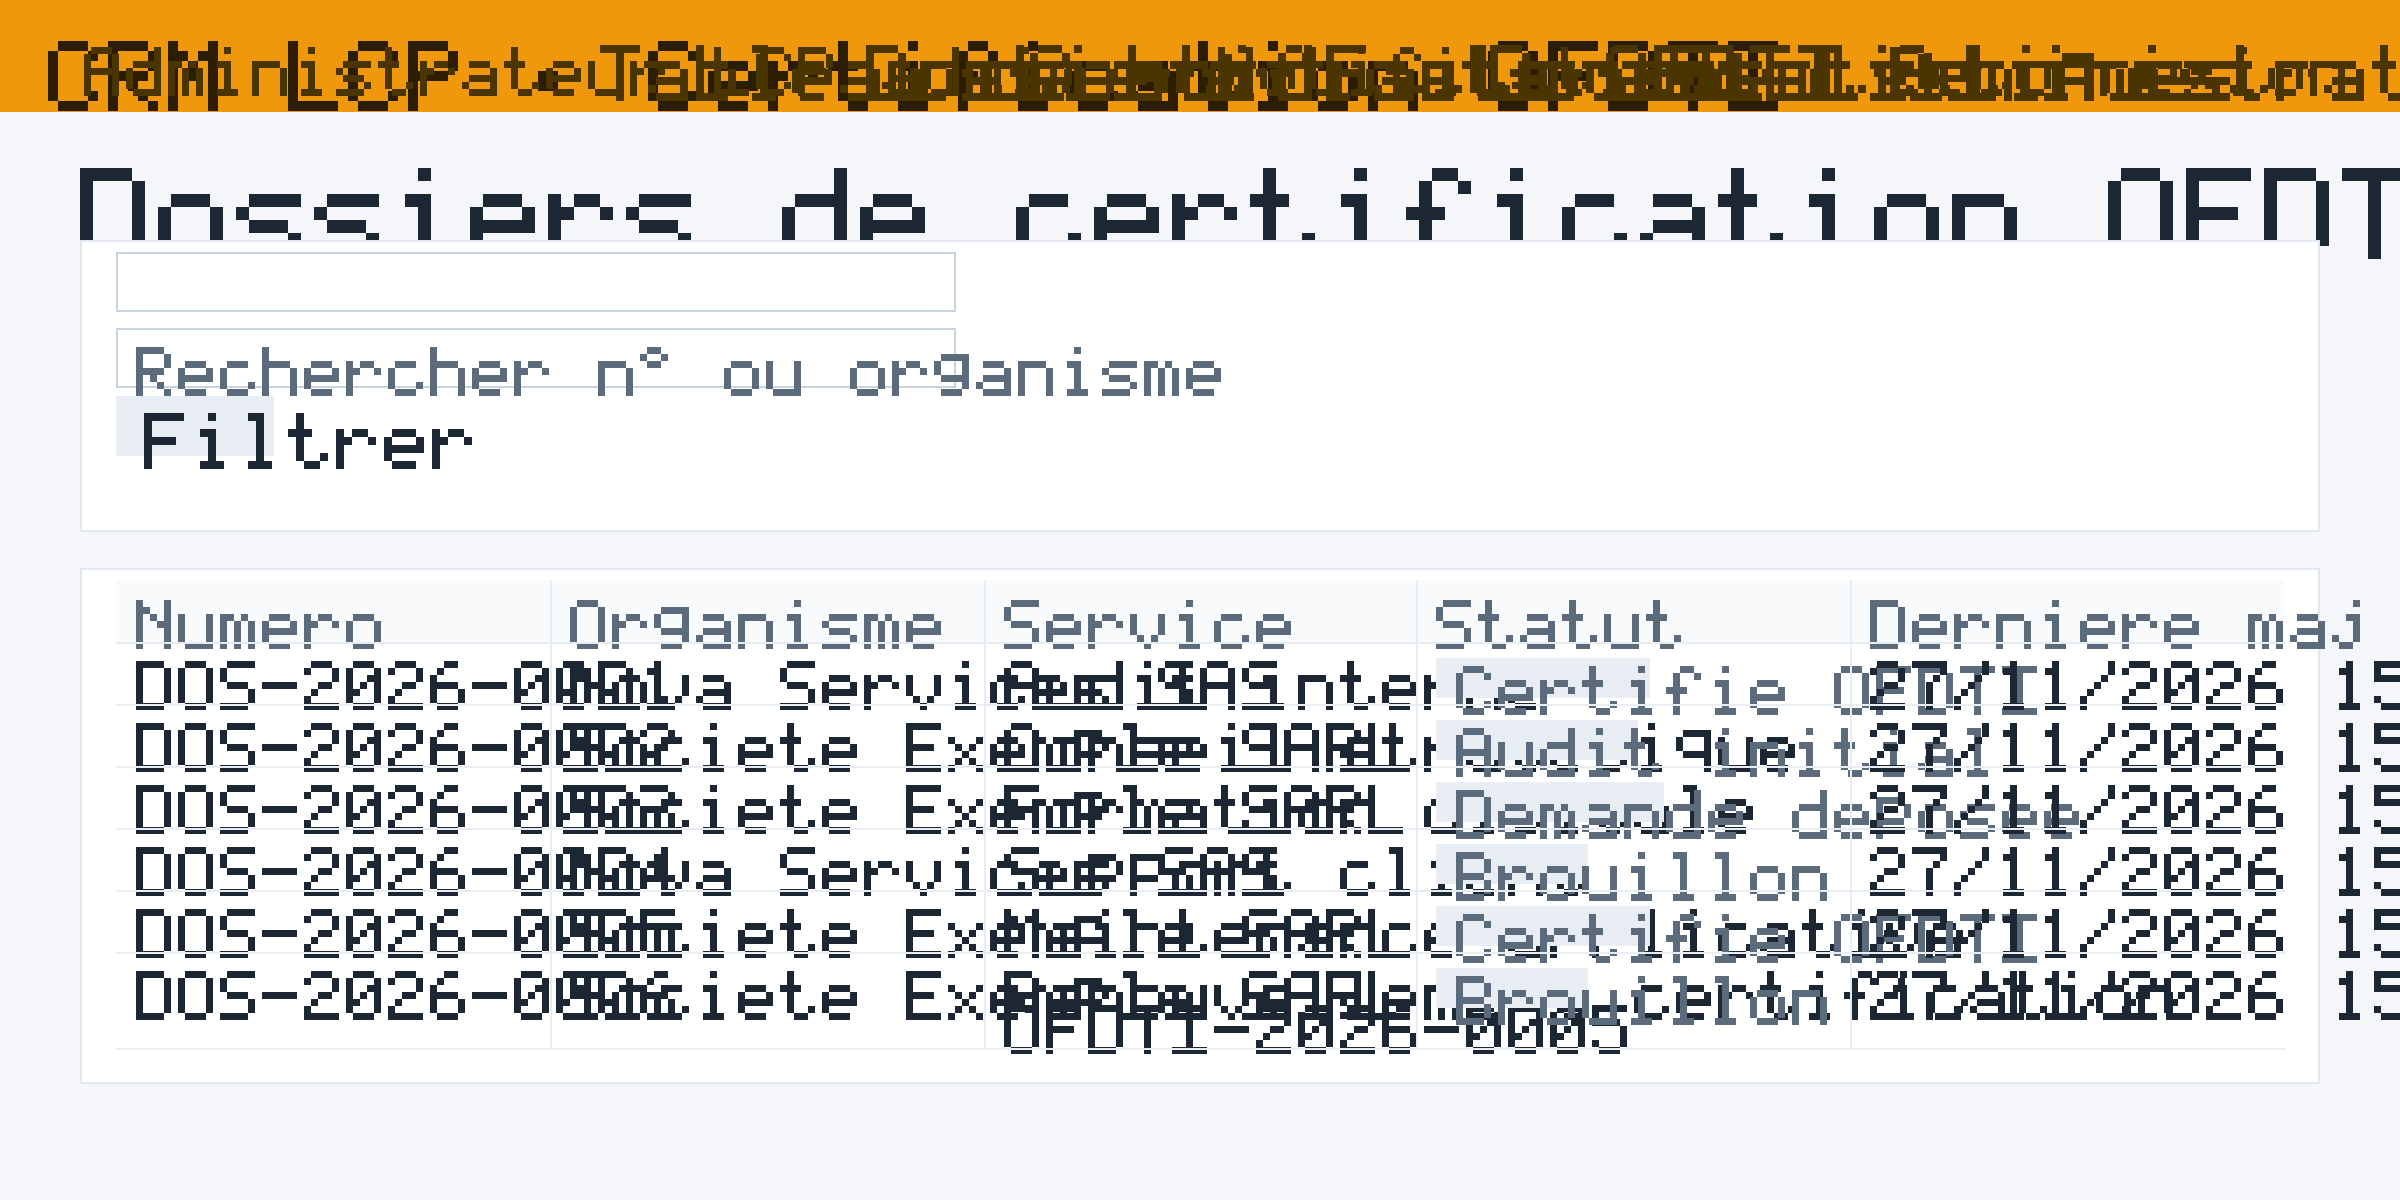
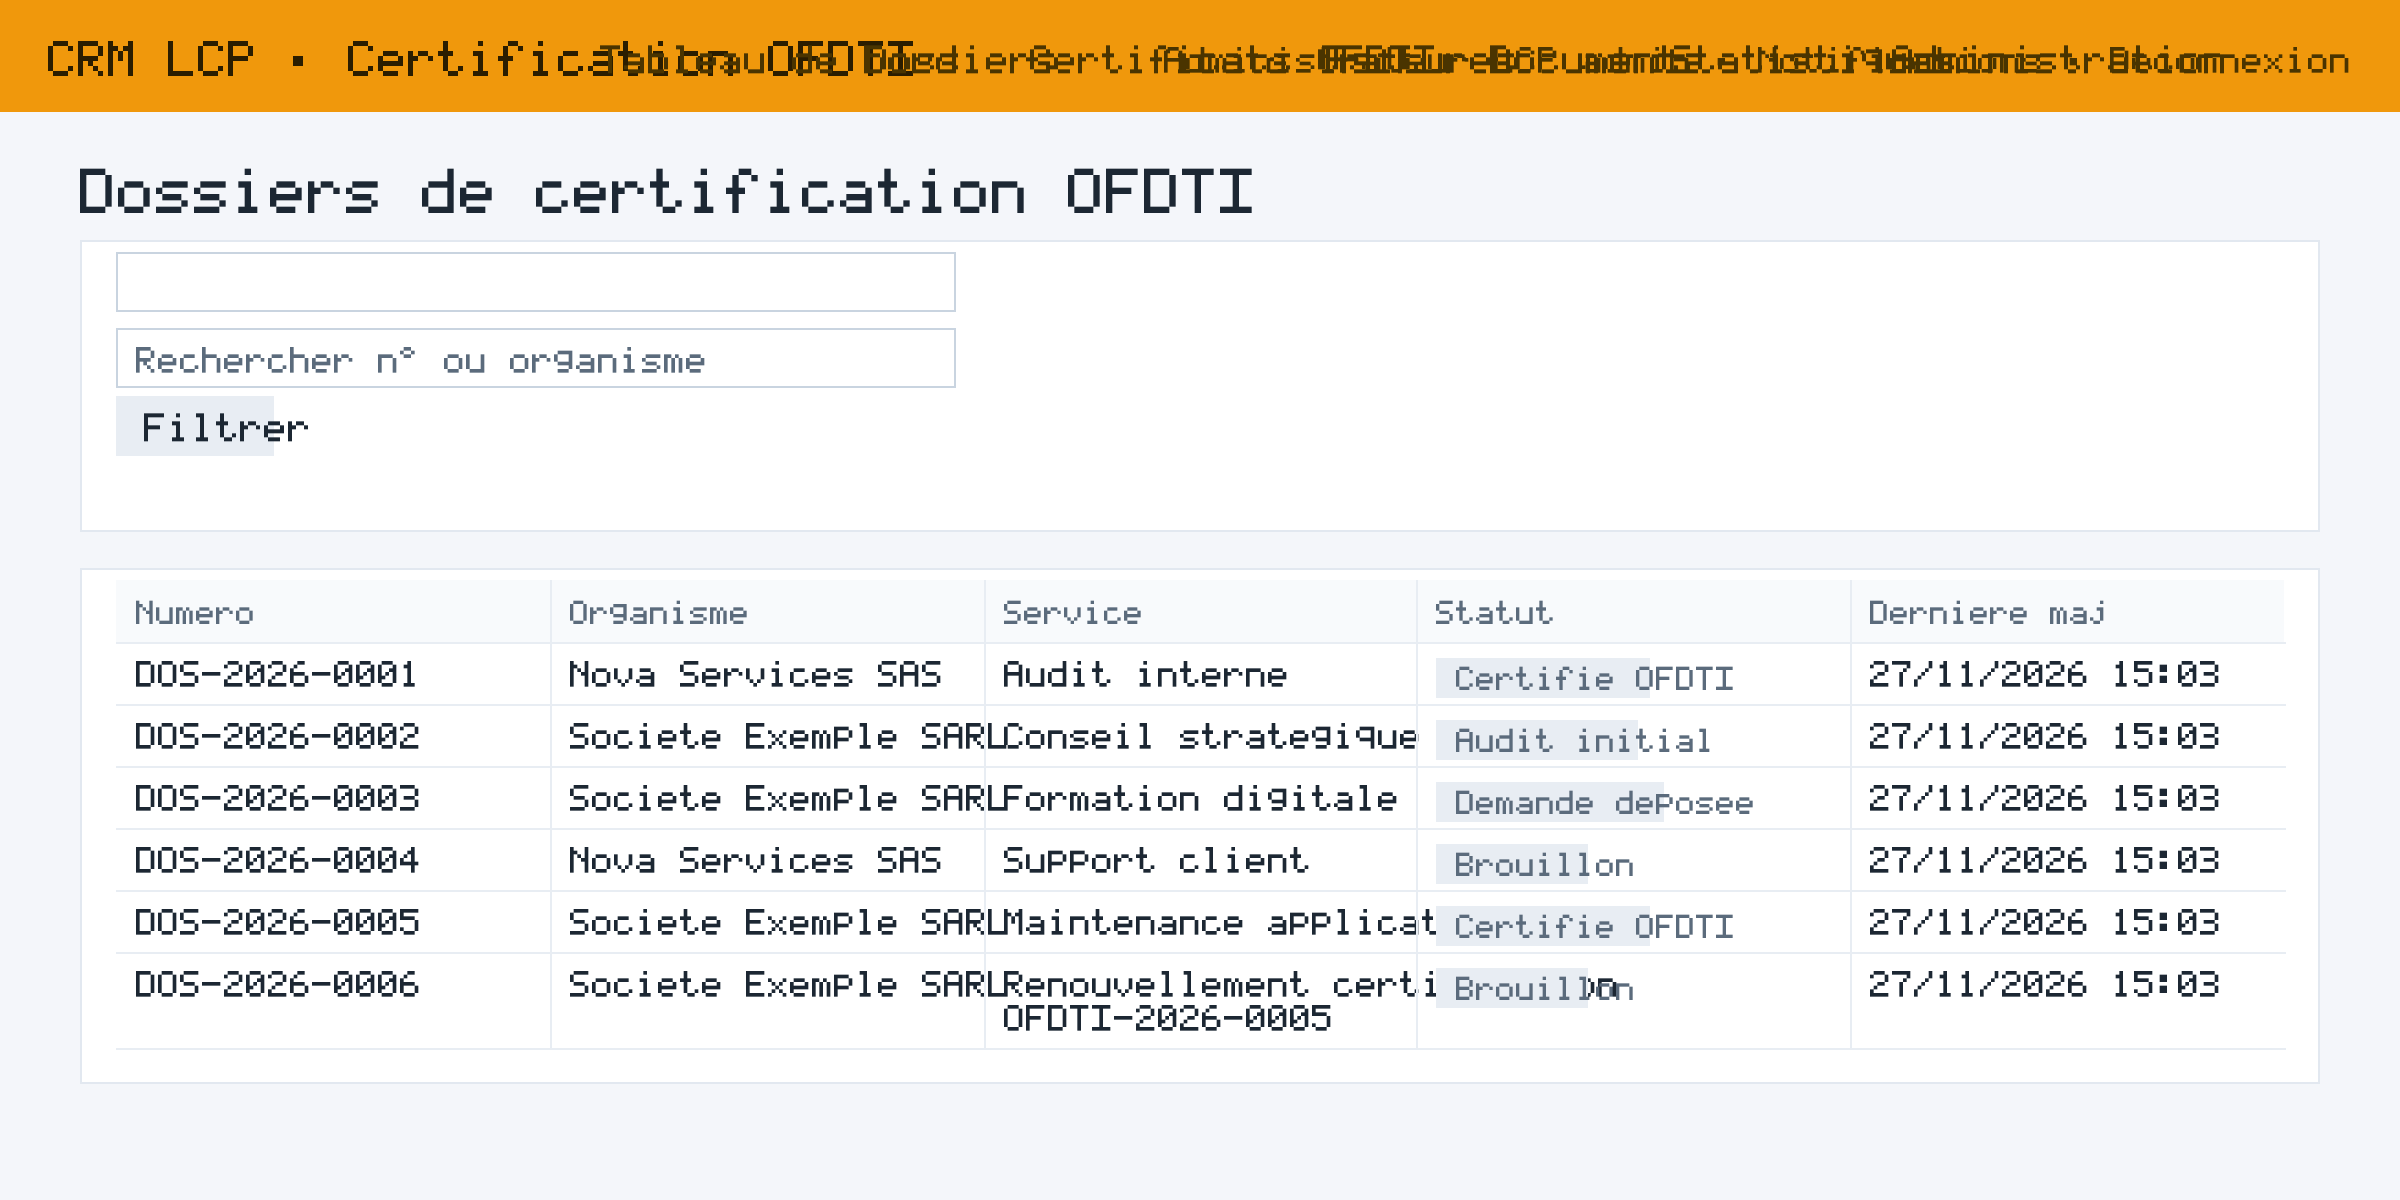
visuels PNG lisibles : correction du bug de double mise à l'échelle du texte (glyphes 2x trop grands qui se chevauchaient = aspect pixelisé) + anti-crénelage par sur-échantillonnage 3x et remplissage par tranches (rendu ~4s/image) — 15 captures régénérées, texte net à 2400px

diff --git a/tools/svg2png.py b/tools/svg2png.py
@@ -133,12 +133,17 @@ def glyph(ch):
     return F.get(norm(ch), F.get(ch.upper(), F["?"]))
 
 
+SS = 3  # sur-échantillonnage : le rendu se fait à SCALE*SS puis est moyenné (anti-crénelage)
+
+from operator import add as _add
+
+
 class Img:
     def __init__(self, w, h, bg=(255, 255, 255)):
-        self.w, self.h = w, h
+        self.w, self.h = int(w), int(h)
+        row = bytes(bg) * self.w
         self.px = bytearray()
-        row = bytes(bg) * w
-        for _ in range(h):
+        for _ in range(self.h):
             self.px += row
 
     def _set(self, x, y, c):
@@ -146,21 +151,26 @@ class Img:
             i = (y * self.w + x) * 3
             self.px[i:i + 3] = bytes(c)
 
+    def _fill(self, x, y, w, h, c):
+        x0, y0 = max(int(x), 0), max(int(y), 0)
+        x1, y1 = min(int(x + w), self.w), min(int(y + h), self.h)
+        if x1 <= x0 or y1 <= y0:
+            return
+        row = bytes(c) * (x1 - x0)
+        span = (x1 - x0) * 3
+        for yy in range(y0, y1):
+            base = (yy * self.w + x0) * 3
+            self.px[base:base + span] = row
+
     def rect(self, x, y, w, h, fill=None, stroke=None, sw=1):
-        x, y, w, h = int(x), int(y), int(w), int(h)
         if fill:
-            for yy in range(y, y + h):
-                for xx in range(x, x + w):
-                    self._set(xx, yy, fill)
+            self._fill(x, y, w, h, fill)
         if stroke:
-            for xx in range(x, x + w):
-                for t in range(sw):
-                    self._set(xx, y + t, stroke)
-                    self._set(xx, y + h - 1 - t, stroke)
-            for yy in range(y, y + h):
-                for t in range(sw):
-                    self._set(x + t, yy, stroke)
-                    self._set(x + w - 1 - t, yy, stroke)
+            sw = max(1, int(sw))
+            self._fill(x, y, w, sw, stroke)
+            self._fill(x, y + h - sw, w, sw, stroke)
+            self._fill(x, y, sw, h, stroke)
+            self._fill(x + w - sw, y, sw, h, stroke)
 
     def line(self, x1, y1, x2, y2, color, sw=1):
         x1, y1, x2, y2 = int(x1), int(y1), int(x2), int(y2)
@@ -168,9 +178,11 @@ class Img:
         sx = 1 if x1 < x2 else -1
         sy = 1 if y1 < y2 else -1
         err = dx + dy
+        sw = max(1, int(sw))
         while True:
-            for t in range(sw):
-                self._set(x1 + t, y1 + t, color)
+            for t1 in range(sw):
+                for t2 in range(sw):
+                    self._set(x1 + t1, y1 + t2, color)
             if x1 == x2 and y1 == y2:
                 break
             e2 = 2 * err
@@ -181,9 +193,32 @@ class Img:
                 err += dx
                 y1 += sy
 
-    def text(self, x, y, s, size, fill, anchor="start", bold=False):
-        scale = max(1, round(size * SCALE / 7))
-        cw = 5 * scale + scale
+    _runs_cache = {}
+
+    def _glyph_runs(self, ch, scale):
+        key = (ch, scale)
+        runs = self._runs_cache.get(key)
+        if runs is None:
+            g = glyph(ch)
+            runs = []
+            for r in range(7):
+                row = g[r] if r < len(g) else ""
+                c = 0
+                while c < 5:
+                    if c < len(row) and row[c] == "#":
+                        c0 = c
+                        while c < len(row) and row[c] == "#":
+                            c += 1
+                        runs.append((r, c0, c))
+                    else:
+                        c += 1
+            self._runs_cache[key] = runs
+        return runs
+
+    def text(self, x, y, s, size, fill, anchor="start"):
+        # size : hauteur de police en pixels du buffer de rendu (SVG * SCALE * SS)
+        scale = max(1, round(size / 7.0))
+        cw = 6 * scale
         total = cw * len(s)
         x = int(x)
         y = int(y)
@@ -191,15 +226,21 @@ class Img:
             x -= total // 2
         elif anchor == "end":
             x -= total
+        frow = bytes(fill)
         for ch in s:
-            g = glyph(ch)
-            for r in range(7):
-                row = g[r] if r < len(g) else ""
-                for c in range(5):
-                    if c < len(row) and row[c] == "#":
-                        for sy in range(scale):
-                            for sx in range(scale):
-                                self._set(x + c * scale + sx, y + r * scale + sy, fill)
+            for (r, c0, c1) in self._glyph_runs(ch, scale):
+                runw = (c1 - c0) * scale
+                row = frow * runw
+                x0 = x + c0 * scale
+                if x0 < 0:
+                    continue
+                for dy in range(scale):
+                    yy = y + r * scale + dy
+                    if 0 <= yy < self.h:
+                        base = (yy * self.w + x0) * 3
+                        end = base + runw * 3
+                        if end <= len(self.px):
+                            self.px[base:end] = row
             x += cw
 
     def save_png(self, path):
@@ -219,6 +260,31 @@ class Img:
             f.write(png)
 
 
+def downsample(px, w, h, s):
+    """Moyenne par blocs s x s (par canal) : anti-crénelage du rendu sur-échantillonné."""
+    ow, oh = w // s, h // s
+    out = bytearray(ow * oh * 3)
+    div = (s * s).__rfloordiv__
+    for c in range(3):
+        ch = bytes(px[c::3])
+        for rp in range(oh):
+            acc = None
+            for k in range(s):
+                row = ch[(rp * s + k) * w:(rp * s + k + 1) * w]
+                hsum = row[0::s]
+                for i in range(1, s):
+                    hsum = map(_add, hsum, row[i::s])
+                acc = hsum if acc is None else map(_add, acc, hsum)
+            start = rp * ow * 3 + c
+            out[start:start + (ow - 1) * 3 + 1:3] = bytes(map(div, acc))
+    return out
+
+
+def _num(v, default=0.0):
+    m = re.match(r"[-+]?[0-9]*\.?[0-9]+", v or "")
+    return float(m.group()) if m else default
+
+
 def parse_color(v, default=(28, 39, 51)):
     if not v or v == "none":
         return None
@@ -235,40 +301,40 @@ def parse_color(v, default=(28, 39, 51)):
 def render_svg(svg_path, png_path):
     tree = ET.parse(svg_path)
     root = tree.getroot()
-    W = int(float(root.get("width")))
-    H = int(float(root.get("height")))
-    img = Img(W * SCALE, H * SCALE)
+    W = int(_num(root.get("width")))
+    H = int(_num(root.get("height")))
+    R = SCALE * SS
+    img = Img(W * R, H * R)
 
     def walk(el, ox, oy):
         for child in el:
             tag = child.tag.replace(SVGNS, "")
-            x = ox + float(child.get("x", 0) or 0)
-            y = oy + float(child.get("y", 0) or 0)
+            x = ox + _num(child.get("x"))
+            y = oy + _num(child.get("y"))
             if tag == "rect":
-                img.rect(x * SCALE, y * SCALE, float(child.get("width")) * SCALE, float(child.get("height")) * SCALE,
+                img.rect(x * R, y * R, _num(child.get("width")) * R, _num(child.get("height")) * R,
                          fill=parse_color(child.get("fill")), stroke=parse_color(child.get("stroke")),
-                         sw=max(1, int(float(child.get("stroke-width", 1)) * SCALE)))
+                         sw=max(1, int(_num(child.get("stroke-width", "1")) * R)))
             elif tag == "line":
-                img.line(float(child.get("x1")) * SCALE + ox * SCALE, float(child.get("y1")) * SCALE + oy * SCALE,
-                         float(child.get("x2")) * SCALE + ox * SCALE, float(child.get("y2")) * SCALE + oy * SCALE,
-                         parse_color(child.get("stroke"), (200, 200, 200)), sw=max(1, int(float(child.get("stroke-width", 1)) * SCALE)))
+                img.line((ox + _num(child.get("x1"))) * R, (oy + _num(child.get("y1"))) * R,
+                         (ox + _num(child.get("x2"))) * R, (oy + _num(child.get("y2"))) * R,
+                         parse_color(child.get("stroke"), (200, 200, 200)),
+                         sw=max(1, int(_num(child.get("stroke-width", "1")) * R)))
             elif tag == "path":
                 pass  # camemberts : ignorés en PNG (les barres suffisent)
             elif tag == "text":
-                size = float(child.get("font-size", 14))
+                size = _num(child.get("font-size"), 14)
                 content = "".join(child.itertext())
-                img.text(x * SCALE, (y - size * 0.8) * SCALE, content, size * SCALE,
+                img.text(x * R, (y - size * 0.8) * R, content, size * R,
                          parse_color(child.get("fill"), (28, 39, 51)),
                          anchor=child.get("text-anchor", "start"))
-            elif tag == "svg":
-                walk(child, x, y)
-            elif tag == "g":
-                walk(child, ox, oy)
             else:
-                walk(child, ox, oy)
+                walk(child, x, y)
 
     walk(root, 0, 0)
-    img.save_png(png_path)
+    out = Img(W * SCALE, H * SCALE)
+    out.px = downsample(img.px, img.w, img.h, SS)
+    out.save_png(png_path)
     return W, H
 
 

diff --git a/README.md b/README.md
@@ -29,10 +29,11 @@ Comptes de démonstration :
 python3 tests.py   # démarre une instance isolée et joue 20 scénarios de bout en bout
 ```
 
-## Visuels (captures d'écran SVG des vrais écrans)
+## Visuels (captures d'écran PNG des vrais écrans — s'affichent directement dans ce README)
 
 Régénération : lancer l'app, capturer les pages HTML, puis
-`python3 tools/render_screenshots.py <dossier_pages_html> docs/screenshots`.
+`python3 tools/render_screenshots.py <dossier_pages_html> docs/screenshots` (SVG)
+puis `python3 tools/svg2png.py docs/screenshots` (PNG).
 
 - [01 — Connexion](docs/screenshots/01-connexion.png)
 - [02 — Tableau de bord admin](docs/screenshots/02-tableau-de-bord-admin.png)
